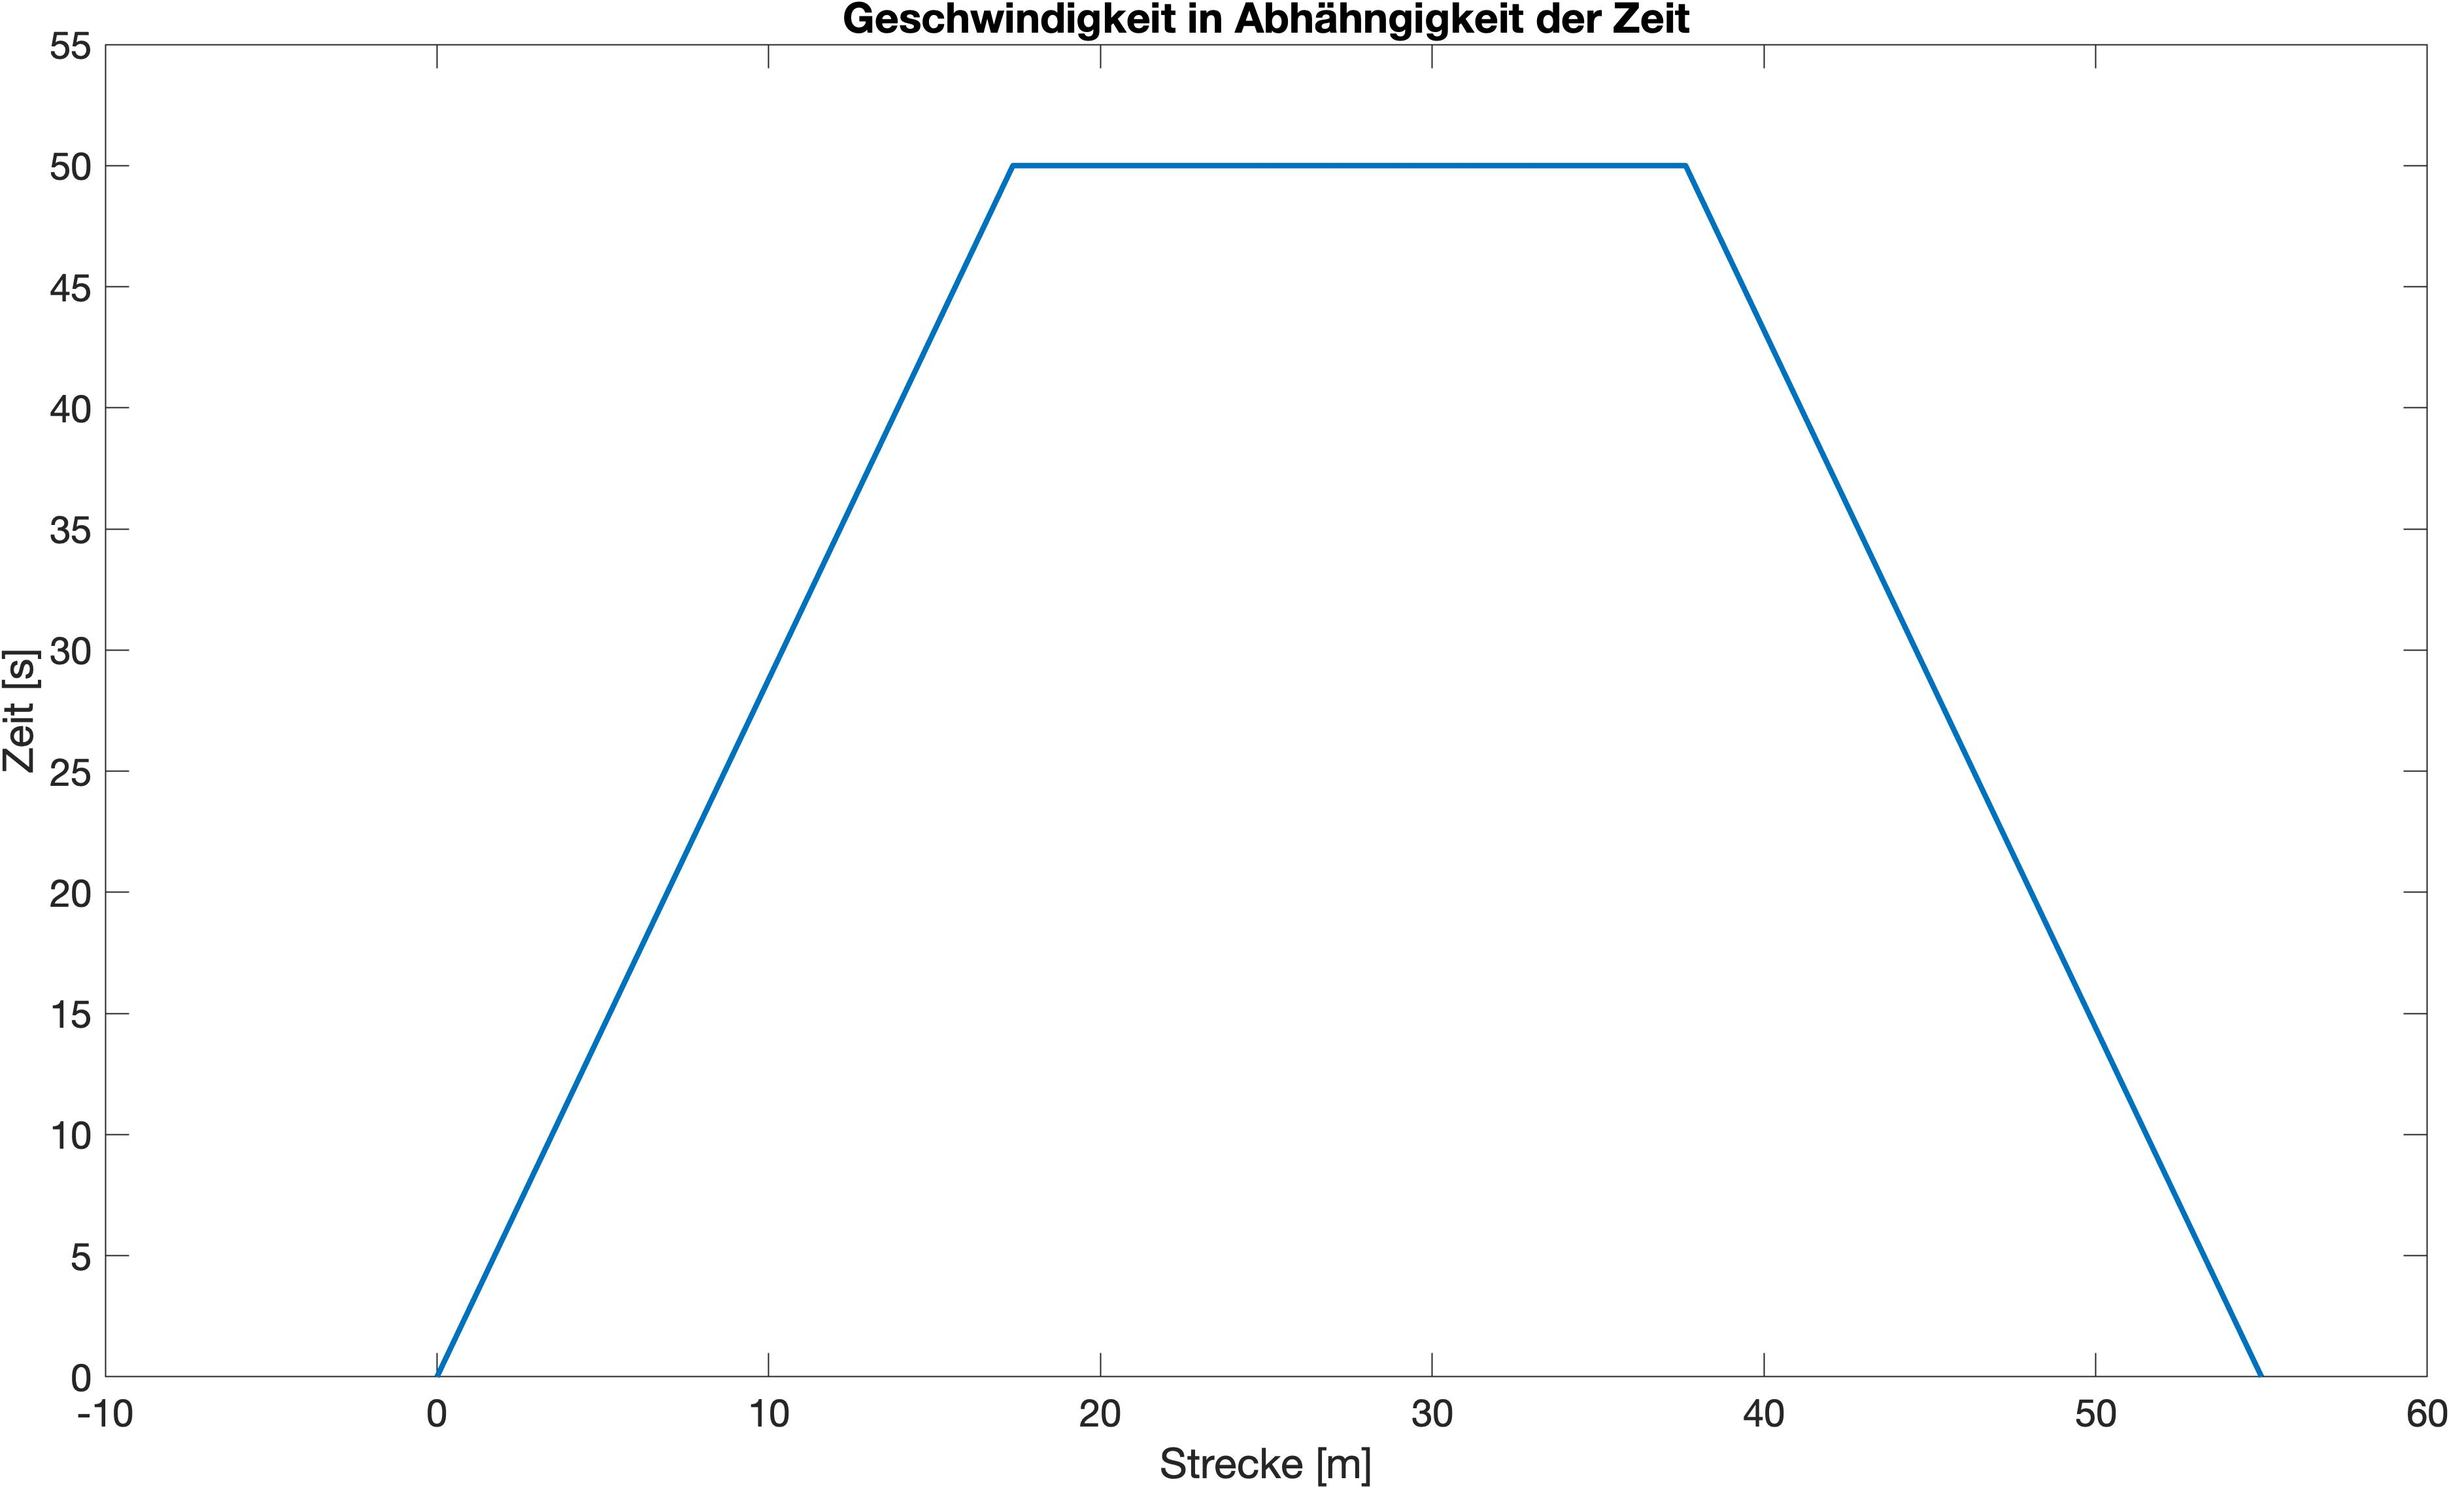
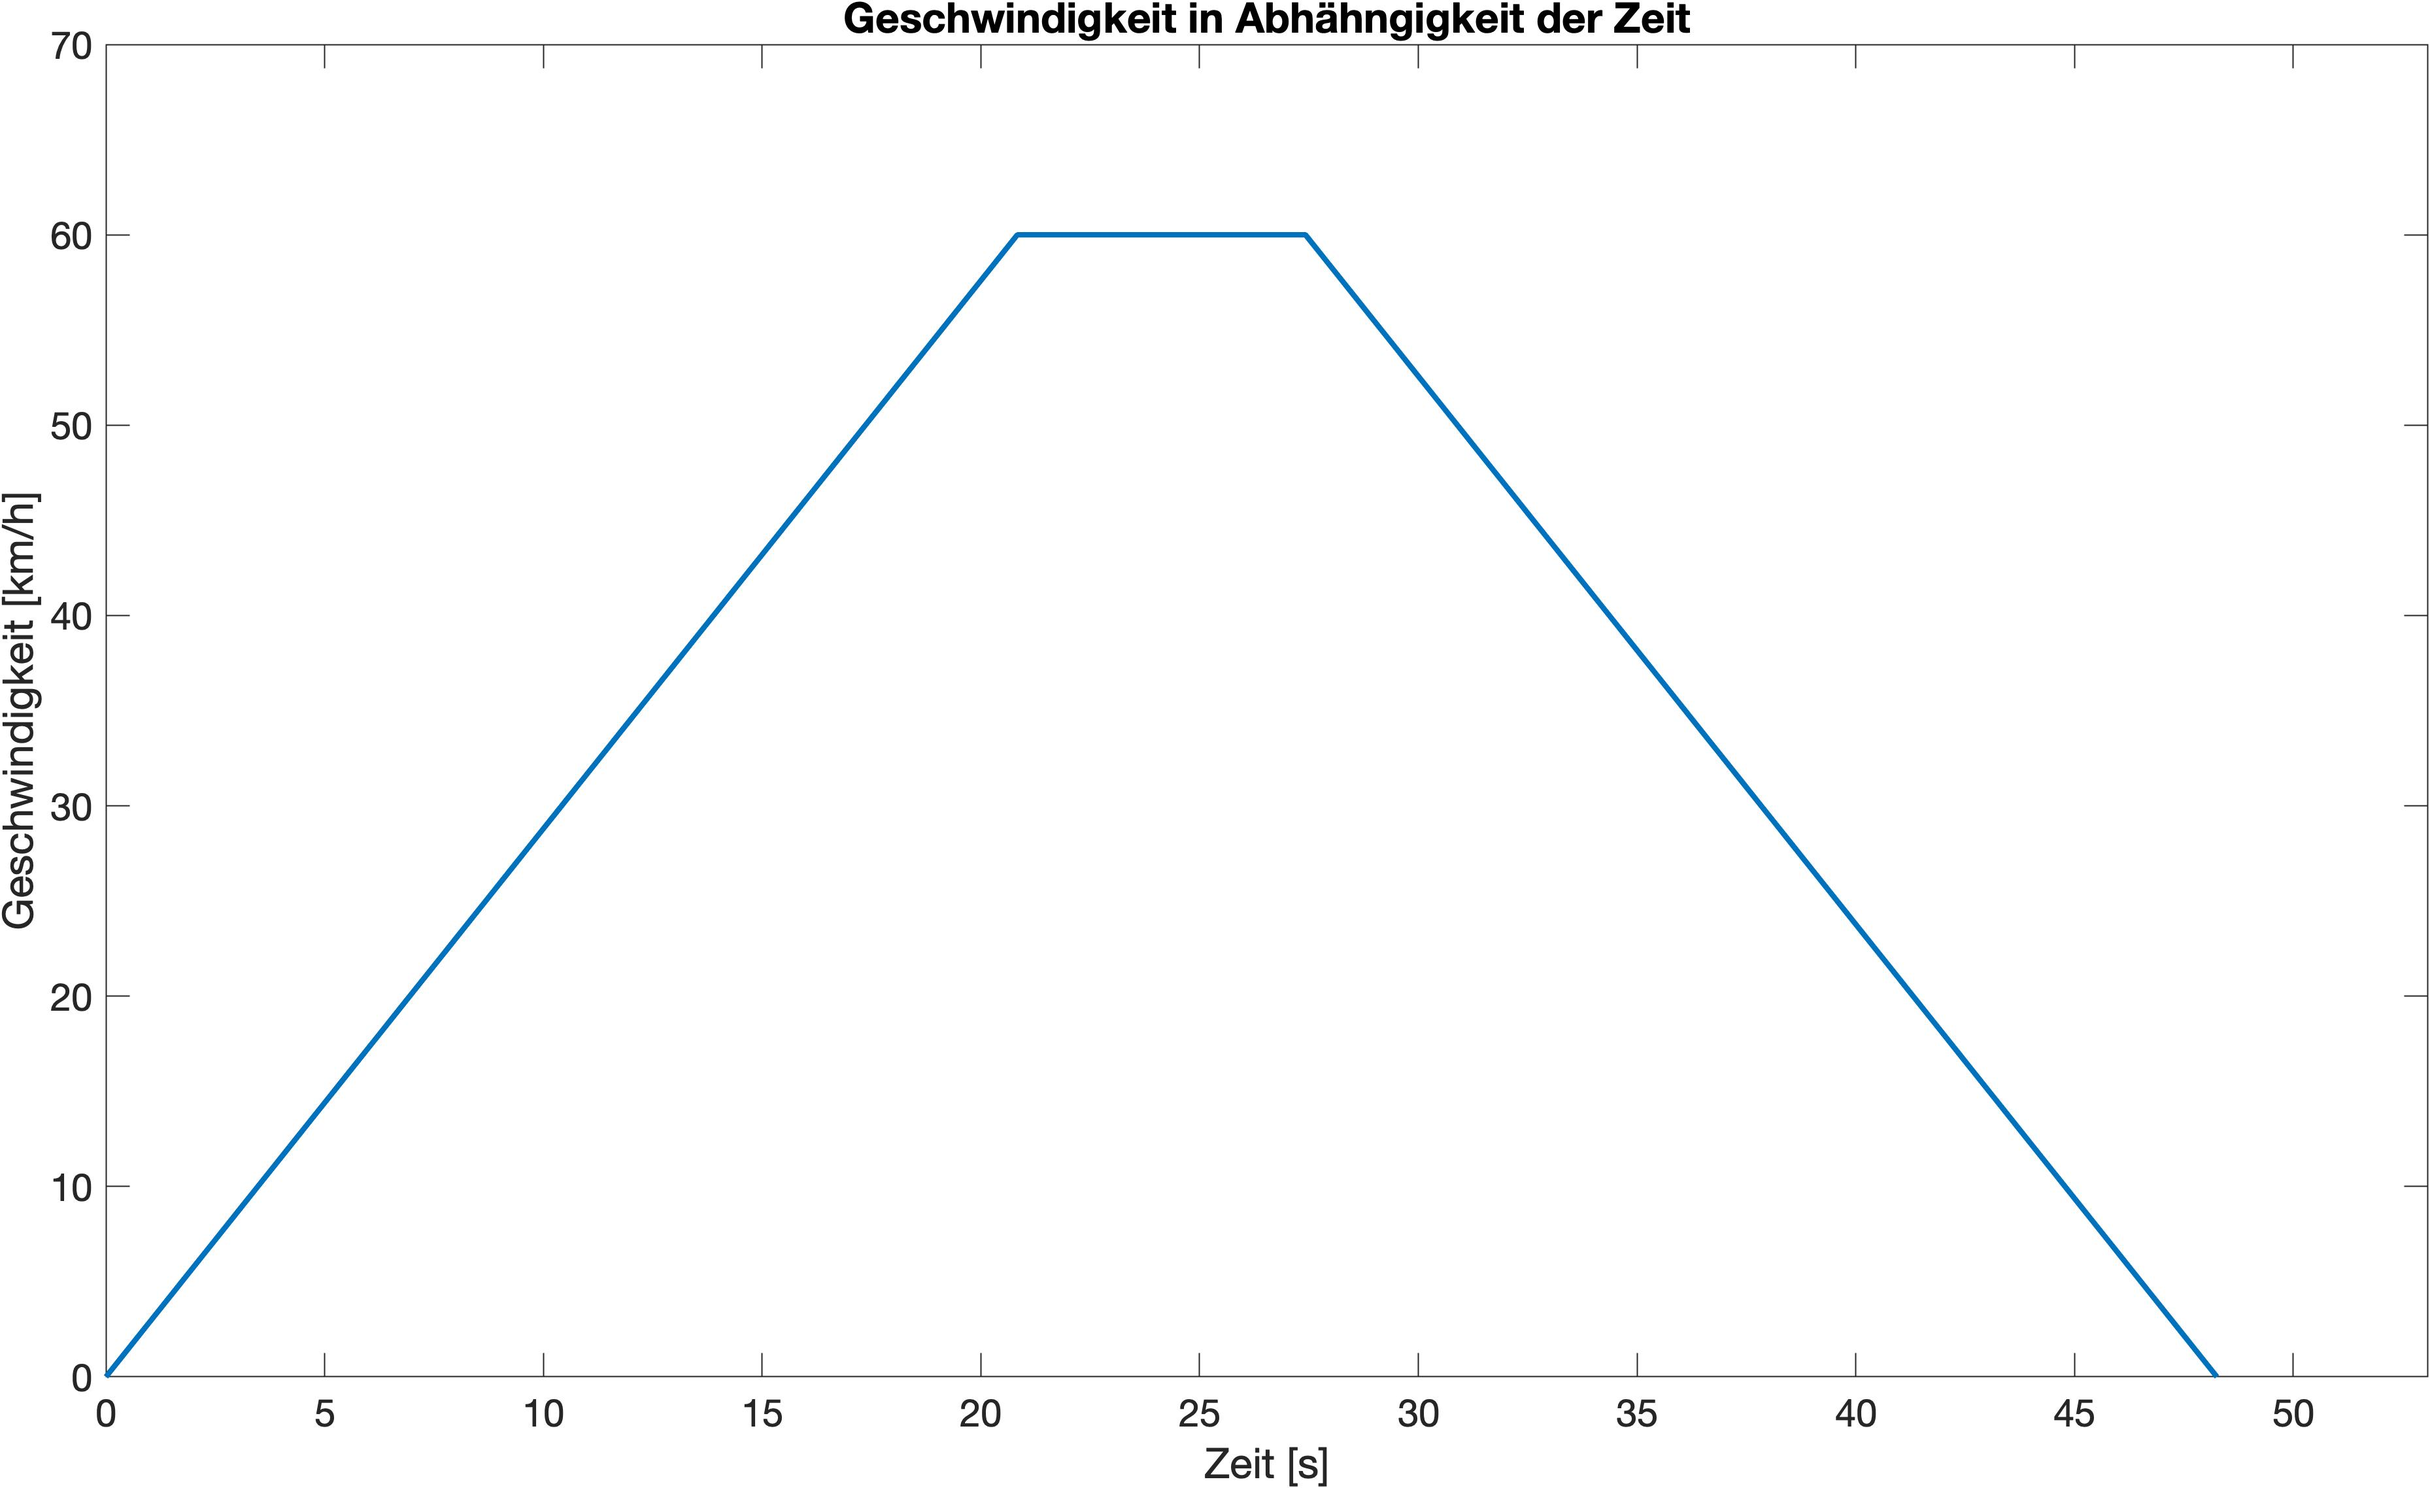
Update with odd or even speeds

diff --git a/php/init/update_fzg.php b/php/init/update_fzg.php
@@ -45,7 +45,6 @@ function whatIsTheNextSpped() {
 	return false;
 }
 
-
 function updateNextSpeed (array $allTrains, int $key, array $value, float $currentTime) {
 
 	$next_sections = $value["next_sections"];
@@ -57,6 +56,8 @@ function updateNextSpeed (array $allTrains, int $key, array $value, float $curre
 
 
 	$verzoegerung = $value["verzoegerung"];
+	$notverzoegerung = $value["notverzoegerung"];
+	//var_dump($notverzoegerung);
 	$section = $value["section"];
 	$position = $value["position"];
 	$speed = $value["speed"];
@@ -69,9 +70,17 @@ function updateNextSpeed (array $allTrains, int $key, array $value, float $curre
 	// abrunden (durch int eh automatisch)
 	$distanceToTheNextScheduledStop = getCompleteDistancToTheNextScheduledStop($next_sections, $next_lengths, $section, $position, $nextSection, $nextPosition);
 
-	$speedOnFreeTrack = getMinimumSpeedToArriveOnTime($distanceToTheNextScheduledStop, $currentTime, $nextTime, $speed, $nextSpeed, $verzoegerung);
+	$speedOnFreeTrack = getMinimumSpeedToArriveOnTime($distanceToTheNextScheduledStop, $currentTime, $nextTime, $speed, $nextSpeed, $verzoegerung, $notverzoegerung, $section);
 
-	getSpeedChange($speed, $speedOnFreeTrack, $nextSpeed, $next_sections, $next_lengths, $position, $nextPosition, $distanceToTheNextScheduledStop, $verzoegerung, $currentTime, $section, $nextSection, $nextTime);
+	// TODO: Check if emergency brake is needed
+
+	if (getBrakeDistance($speed, $nextSpeed, $verzoegerung) <= $distanceToTheNextScheduledStop) {
+		getSpeedChange($speed, $speedOnFreeTrack, $nextSpeed, $next_sections, $next_lengths, $position, $nextPosition, $distanceToTheNextScheduledStop, $verzoegerung, $currentTime, $section, $nextSection, $nextTime);
+	} else {
+		echo "Notbremsung!\n";
+	}
+
+
 
 
 
@@ -118,8 +127,6 @@ function updateNextSpeed (array $allTrains, int $key, array $value, float $curre
 
 }
 
-
-
 function getCompleteDistancToTheNextScheduledStop(array $next_sections, array $next_lenghts, int $section, int $position, int $nextSection, int $nextPosition) : int {
 
 	$startKey = null;
@@ -158,7 +165,7 @@ function getCompleteDistancToTheNextScheduledStop(array $next_sections, array $n
 
 }
 
-function getMinimumSpeedToArriveOnTime(int $distanceToTheNextScheduledStop, float $currentTime, float $nextTime, int $currentSpeed, int $targetSpeed, float $verzoegerung): int {
+function getMinimumSpeedToArriveOnTime(int $distanceToTheNextScheduledStop, float $currentTime, float $nextTime, int $currentSpeed, int $targetSpeed, float $verzoegerung, float $notverzoegerung, int $currentSection): int {
 
 	$availableTime = $nextTime - $currentTime;
 	$possibleSpeed = null;
@@ -186,6 +193,11 @@ function getMinimumSpeedToArriveOnTime(int $distanceToTheNextScheduledStop, floa
 	if (!$foundSpeed) {
 		$possibleSpeed = end($allPossibleSpeeds);
 	}
+
+	// Wenn Notbremse, dann possibleSpped = 0
+	//var_dump($allPossibleSpeeds);
+	//var_dump($possibleSpeed);
+
 	return $possibleSpeed;
 }
 
@@ -201,6 +213,20 @@ function getSpeedChange(int $speed, int $speedOnFreeTrack, int $nextSpeed, array
 	$brakeTime = getBrakeTime($speedOnFreeTrack, $nextSpeed, $verzoegerung);
 
 	$cumulativeSections = array();
+
+
+	/*
+	var_dump($accelerationDistance);
+	var_dump($brakeDistance);
+	var_dump($accelerationTime);
+	var_dump($brakeTime);
+	var_dump($speed);
+	var_dump($speedOnFreeTrack);
+	var_dump($nextSpeed);
+	*/
+
+
+
 
 	foreach ($nextSection as $key => $value) {
 		if ($value == $currentSection) {
@@ -219,6 +245,8 @@ function getSpeedChange(int $speed, int $speedOnFreeTrack, int $nextSpeed, array
 		}
 	}
 
+	//var_dump(end($cumulativeSections));
+
 	/*
 	if ($targetKey < $startKey) {
 		debugMessage("Der Zeilabschnitt wurde schon durchfahren");
@@ -230,6 +258,9 @@ function getSpeedChange(int $speed, int $speedOnFreeTrack, int $nextSpeed, array
 		return false;
 	}
 	*/
+
+	//var_dump(getBrakeDistance(100,0,0.8));
+	//var_dump(end($cumulativeSections));
 
 
 
@@ -247,6 +278,16 @@ function getSpeedChange(int $speed, int $speedOnFreeTrack, int $nextSpeed, array
 
 	// Time and Speed for Start
 	if ($speed < $speedOnFreeTrack) {
+		if ($speed % 2 != 0) {
+			$tempDistance = getBrakeDistance($speed, ($speed + 1), $verzoegerung);
+			$tempTime = getBrakeTime($speed, ($speed + 1), $verzoegerung);
+
+			array_push($allTimes, (end($allTimes) + $tempTime));
+			array_push($allSpeeds, ($speed + 1));
+			array_push($allPositionsChange, end($allPositionsChange) + $tempDistance);
+
+			$speed = $speed + 1;
+		}
 		for ($i = $speed; $i <= ($speedOnFreeTrack - 2); $i = $i + 2) {
 			$tempDistance = getBrakeDistance($i, ($i + 2), $verzoegerung);
 			$tempTime = getBrakeTime($i, ($i + 2), $verzoegerung);
@@ -255,19 +296,34 @@ function getSpeedChange(int $speed, int $speedOnFreeTrack, int $nextSpeed, array
 			array_push($allSpeeds, ($i + 2));
 			array_push($allPositionsChange, end($allPositionsChange) + $tempDistance);
 		}
-	} if ($speed > $speedOnFreeTrack) {
+	} elseif ($speed > $speedOnFreeTrack) {
+		if ($speed % 2 != 0) {
+			$tempDistance = getBrakeDistance($speed, ($speed - 1), $verzoegerung);
+			$tempTime = getBrakeTime($speed, ($speed - 1), $verzoegerung);
+
+			array_push($allTimes, (end($allTimes) + $tempTime));
+			array_push($allSpeeds, ($speed - 1));
+			array_push($allPositionsChange, end($allPositionsChange) + $tempDistance);
+
+			$speed = $speed - 1;
+		}
 		for ($i = $speed; $i >= ($speedOnFreeTrack + 2); $i = $i - 2) {
 			$tempDistance = getBrakeDistance($i, ($i - 2), $verzoegerung);
 			$tempTime = getBrakeTime($i, ($i - 2), $verzoegerung);
 
 			array_push($allTimes, (end($allTimes) + $tempTime));
 			array_push($allSpeeds, ($i - 2));
+			array_push($allPositionsChange, end($allPositionsChange) + $tempDistance);
 		}
 	}
 
 	//var_dump($allTimes);
 
-	array_push($allTimes, ($nextTime - $brakeTime));
+
+
+
+
+	array_push($allTimes, (end($allTimes) + (end($cumulativeSections) - $accelerationDistance - $brakeDistance)/($speedOnFreeTrack/3.6)));
 	array_push($allSpeeds, $speedOnFreeTrack);
 	array_push($allPositionsChange, end($cumulativeSections) - $brakeDistance);
 	array_push($allSectionsChange, $currentSection);
@@ -276,14 +332,13 @@ function getSpeedChange(int $speed, int $speedOnFreeTrack, int $nextSpeed, array
 
 	// Time and Speed for End
 	if ($nextSpeed > $speedOnFreeTrack) {
-		for ($i = $nextSpeed; $i <= ($speedOnFreeTrack - 2); $i = $i + 2) {
-			$tempDistance = getBrakeDistance($nextSpeed, ($nextSpeed + 2), $verzoegerung);
-			$tempTime = getBrakeTime($nextSpeed, ($nextSpeed + 2), $verzoegerung);
+		for ($i = $speedOnFreeTrack; $i <= ($nextSpeed - 2); $i = $i + 2) {
+			$tempDistance = getBrakeDistance($i, ($i + 2), $verzoegerung);
+			$tempTime = getBrakeTime($i, ($i + 2), $verzoegerung);
 
 			array_push($allTimes, (end($allTimes) + $tempTime));
 			array_push($allSpeeds, ($i + 2));
-
-
+			array_push($allPositionsChange, end($allPositionsChange) + $tempDistance);
 		}
 	} if ($nextSpeed < $speedOnFreeTrack) {
 		for ($i = $speedOnFreeTrack; $i >= ($nextSpeed + 2); $i = $i - 2) {
@@ -298,7 +353,7 @@ function getSpeedChange(int $speed, int $speedOnFreeTrack, int $nextSpeed, array
 	}
 
 
-	var_dump($allPositionsChange);
+	//var_dump($allPositionsChange);
 
 	$allSpeedsJSon = json_encode($allSpeeds);
 	$allTimesJSon = json_encode($allTimes);
@@ -323,6 +378,16 @@ function getSpeedChange(int $speed, int $speedOnFreeTrack, int $nextSpeed, array
 	fwrite($fp, $speedOverPosition);
 	fclose($fp);
 
+	$positionsJSon = json_encode($cumulativeSections);
+
+	$fp = fopen('../json/cumulativeSections.json', 'w');
+	fwrite($fp, $positionsJSon);
+	fclose($fp);
+
+	//var_dump($allTimes);
+	//var_dump($allPositionsChange);
+	//var_dump($allSpeeds);
+
 
 
 }
@@ -340,6 +405,9 @@ function getBrakeTime (float $v_0, float $v_1, float $verzoegerung) : float  {
 		return ($v_0/$verzoegerung) - ($v_1/$verzoegerung);
 	}
 
+	if ($v_0 == $v_1) {
+		return 0;
+	}
 
 
 
@@ -371,6 +439,53 @@ function getBrakeDistance (float $v_0, float $v_1, float $verzoegerung) : float 
 }
 
 // Input: aktuelle Geschwindigkeit, maximale
-function emergencyBreak (float $maxBreakDistance, int $speed) {
-	return (($speed / 3.6))/(2 * $maxBreakDistance);
+function emergencyBreak (float $currentTime, int $currentSpeed, int $currentSection, float $notverzoegerung, int $nextSpeed) {
+
+	$allTimes = array();
+	$allSpeeds = array();
+	$allSectionsChange = array();
+	$allPositionsChange = array();
+
+	// 0 km/h und aktuelle Zeit
+	array_push($allTimes, $currentTime);
+	array_push($allSpeeds, $currentSpeed);
+	array_push($allPositionsChange, 0);
+	array_push($allSectionsChange, $currentSection);
+
+	for ($i = $currentSpeed; $i >= ($nextSpeed + 2); $i = $i - 2) {
+		$tempDistance = getBrakeDistance($i, ($i - 2), $notverzoegerung);
+		$tempTime = getBrakeTime($i, ($i - 2), $notverzoegerung);
+
+		array_push($allTimes, (end($allTimes) + $tempTime));
+		array_push($allSpeeds, ($i - 2));
+		array_push($allPositionsChange, end($allPositionsChange) + $tempDistance);
+
+	}
+
+	function toArr(){
+		return func_get_args();
+	}
+
+	$speedOverTime = array_map('toArr', $allTimes, $allSpeeds);
+
+	$speedOverTime = json_encode($speedOverTime);
+
+	$fp = fopen('../json/speedOverTime.json', 'w');
+	fwrite($fp, $speedOverTime);
+	fclose($fp);
+
+	$speedOverPosition = array_map('toArr', $allPositionsChange, $allSpeeds);
+
+	$speedOverPosition = json_encode($speedOverPosition);
+
+	$fp = fopen('../json/speedOverPosition.json', 'w');
+	fwrite($fp, $speedOverPosition);
+	fclose($fp);
+
+	//$positionsJSon = json_encode($cumulativeSections);
+
+	//$fp = fopen('../json/cumulativeSections.json', 'w');
+	//fwrite($fp, $positionsJSon);
+	//fclose($fp);
+
 }

diff --git a/matlab/speedOverTime.m b/matlab/speedOverTime.m
@@ -1,13 +1,26 @@
+%% Cumulative Sections
+
+figure(1);
+fname = '../json/cumulativeSections.json'; 
+fid = fopen(fname); 
+raw = fread(fid,inf); 
+str = char(raw'); 
+fclose(fid); 
+cum = jsondecode(str);
+
+%% Geschwindigkeit über Zeit
+
+figure(1);
 fname = '../json/speedOverTime.json'; 
 fid = fopen(fname); 
 raw = fread(fid,inf); 
 str = char(raw'); 
 fclose(fid); 
-val = jsondecode(str);
+val_1 = jsondecode(str);
 
-speedOverTime_x = val(:,1)-1612811700;
+speedOverTime_x = val_1(:,1)-1612811700;
 
-speedOverTime_y = val(:,2);
+speedOverTime_y = val_1(:,2);
 
 
 p = plot(speedOverTime_x,speedOverTime_y);
@@ -15,14 +28,57 @@ p = plot(speedOverTime_x,speedOverTime_y);
 p.LineWidth = 2;
 fontSize = 18;
 title("Geschwindigkeit in Abhähngigkeit der Zeit", 'FontSize', fontSize);
-xlabel("Strecke [m]", 'FontSize', fontSize);
-ylabel("Zeit [s]", 'FontSize', fontSize);
+xlabel("Zeit [s]", 'FontSize', fontSize);
+ylabel("Geschwindigkeit [km/h]", 'FontSize', fontSize);
 x0=10;
 y0=10;
 width=1100;
 height=600;
-axis([-10 60 0 55])
+axis([min(speedOverTime_x)*0.9 max(speedOverTime_x)*1.1 0 max(speedOverTime_y)+10]);
 set(gcf,'position',[x0,y0,width,height]);
 set(gca, 'FontSize', 14);
 t = gca;
 exportgraphics(t,'SpeedOverTime.jpg','Resolution',300);
+
+%% Geschwindigkeit über Position
+
+figure(2);
+fname = '../json/speedOverPosition.json'; 
+fid = fopen(fname); 
+raw = fread(fid,inf); 
+str = char(raw'); 
+fclose(fid); 
+val = jsondecode(str);
+
+speedOverPosition_x = val(:,1);
+
+speedOverPosition_y = val(:,2);
+
+
+p = plot(speedOverPosition_x,speedOverPosition_y);
+
+fontSize = 18;
+title("Geschwindigkeit in Abhähngigkeit der Position", 'FontSize', fontSize);
+xlabel("Strecke [m]", 'FontSize', fontSize);
+ylabel("Geschwindigkeit [km/h]", 'FontSize', fontSize);
+x0=10;
+line([100 100], ylim);
+
+for i = cum
+   line([i i], ylim,'LineWidth',1,'color','black'); 
+end
+
+p.LineWidth = 2;
+
+y0=10;
+width=1100;
+height=600;
+axis([min(speedOverPosition_x)-10 max(speedOverPosition_x)+10 0 max(speedOverPosition_y)+10]);
+set(gcf,'position',[x0,y0,width,height]);
+set(gca, 'FontSize', 14);
+t = gca;
+exportgraphics(t,'SpeedOverPosition.jpg','Resolution',300);
+
+
+
+

diff --git a/php/init/init_fzg.php b/php/init/init_fzg.php
@@ -7,7 +7,7 @@ function initFzg (int $id, int $adresse, float $verzoegerung, int $speed, int $s
 		"id" => $id,
 		"adresse" => $adresse,
 		"verzoegerung" => $verzoegerung,
-		"notverzoegerung" => "",
+		"notverzoegerung" => 2,
 		"speedConstant" => "", // true or false
 		"laenge" => "",
 		"section" => $section,

diff --git a/php/main.php b/php/main.php
@@ -51,7 +51,7 @@ if (true) {
 // Nächsten Halt festlegen
 if (true) {
 	foreach ($allTrains as $key => $value) {
-		$allTrains[$key] = setTargetSpeed($allTrains, $key, 0, 706, 100, $fixedTestTime + 55);
+		$allTrains[$key] = setTargetSpeed($allTrains, $key, 0, 706, 100, $fixedTestTime + 80);
 	}
 }
 
